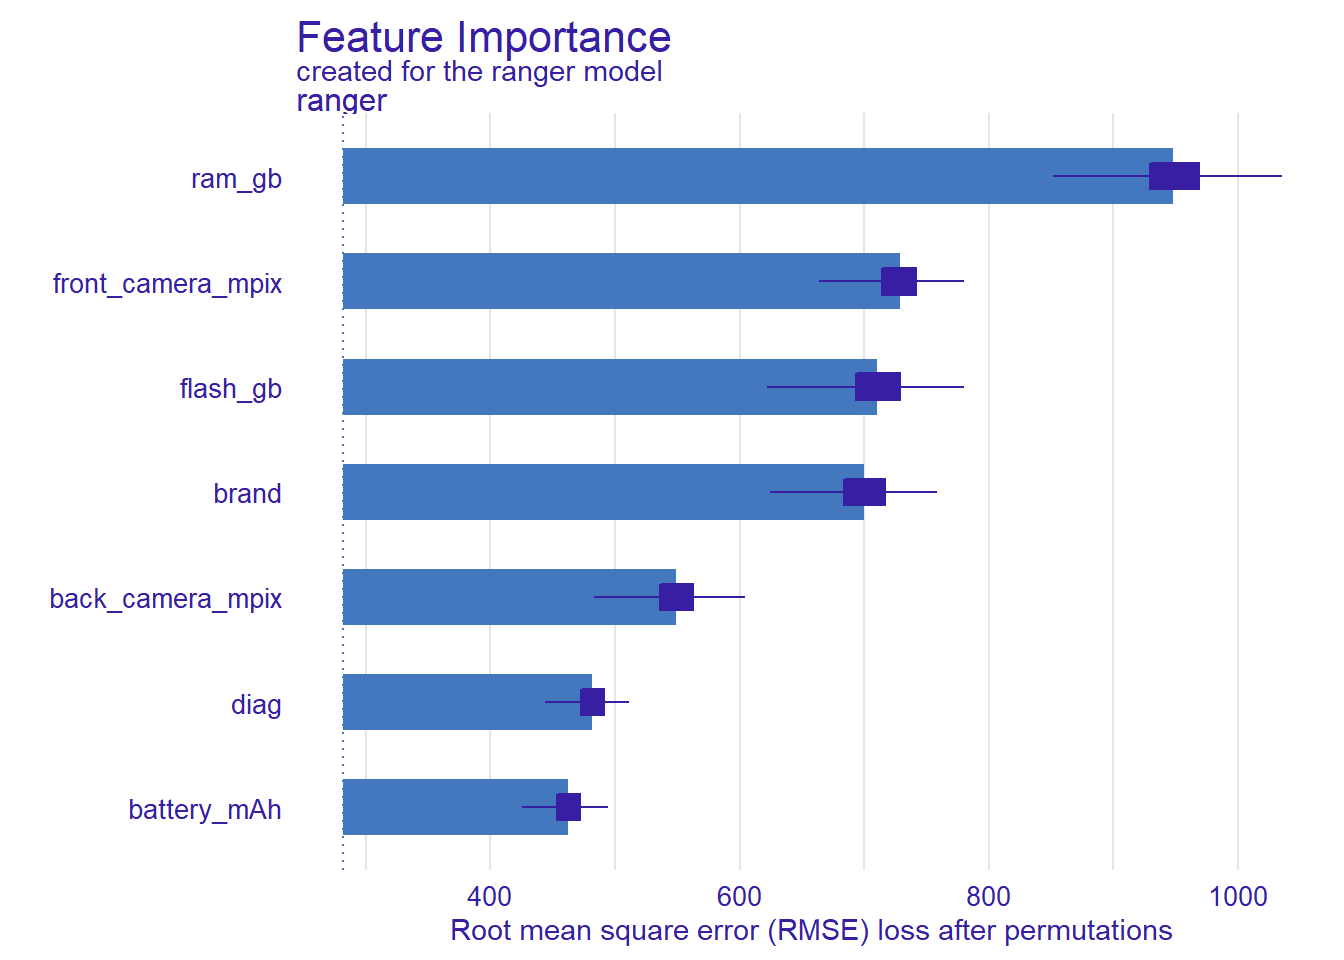
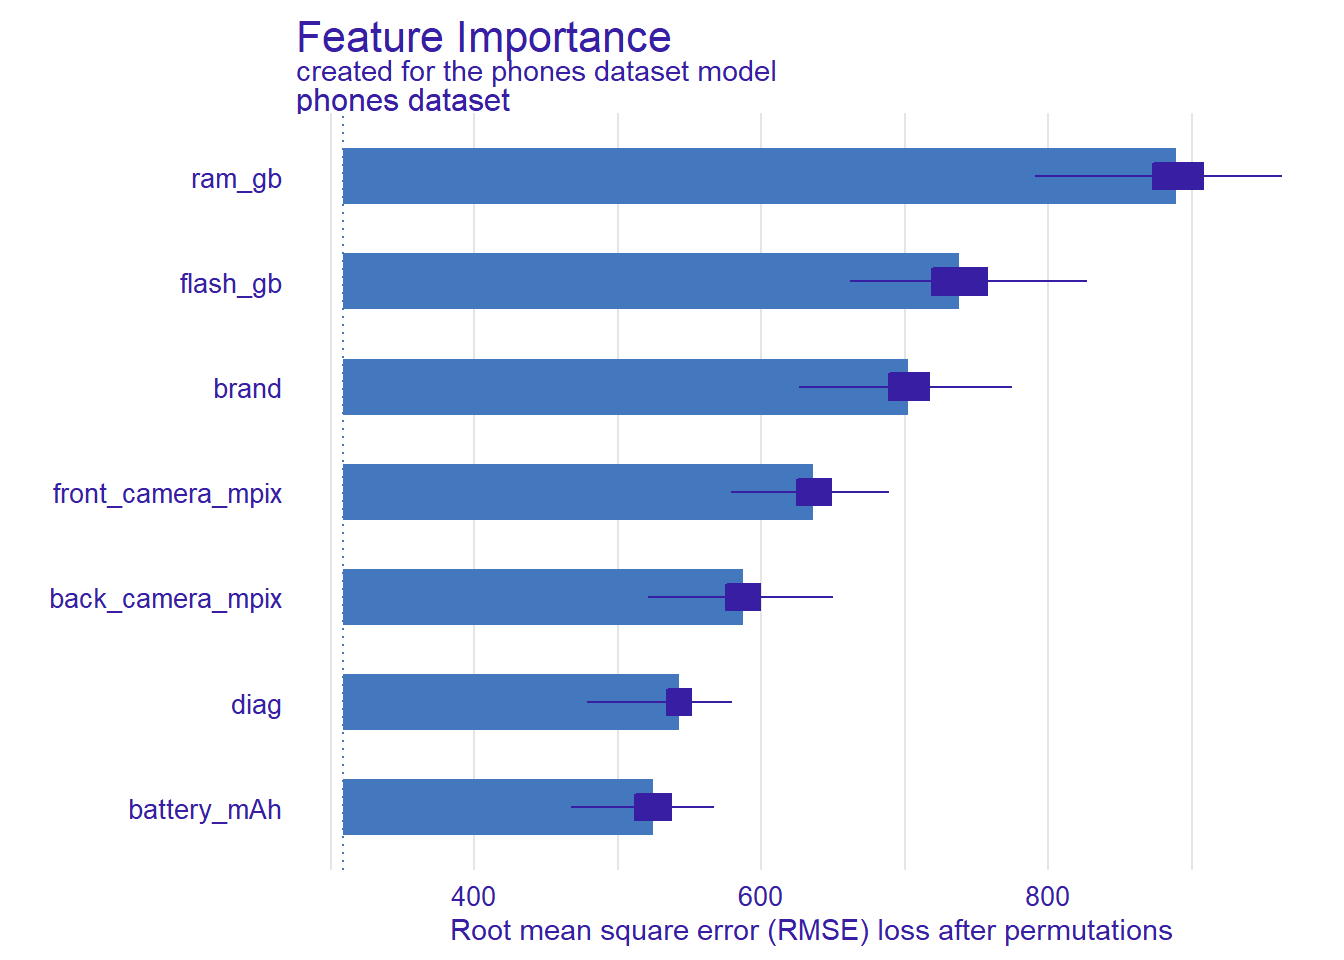
feat importance fix

diff --git a/2-1-phones.html b/2-1-phones.html
@@ -537,6 +537,12 @@ Correlation matrix
 </div>
 <div id="global-explainations" class="section level4">
 <h4>Global explainations</h4>
+<div class="figure" style="text-align: center">
[1 lines of base64/hex data omitted]
+<p class="caption">
+Feature importance
+</p>
+</div>
 </div>
 </div>
 <div id="summary-and-conclusion" class="section level3">
